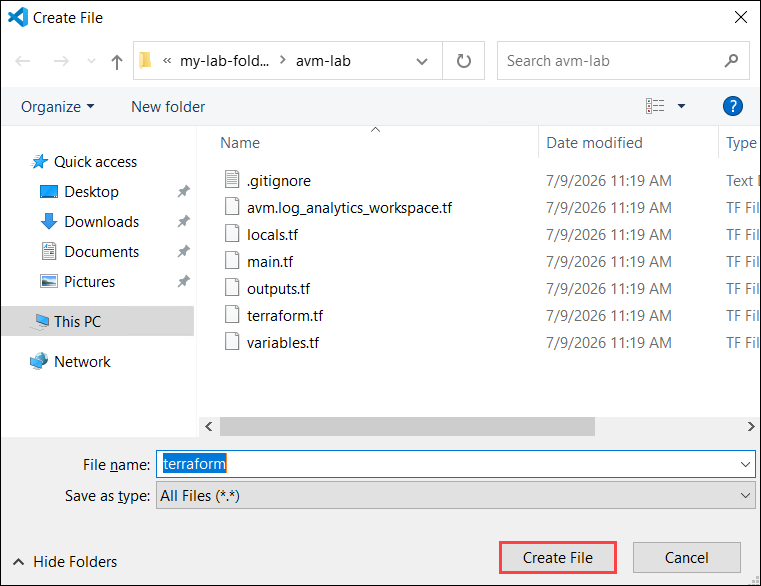
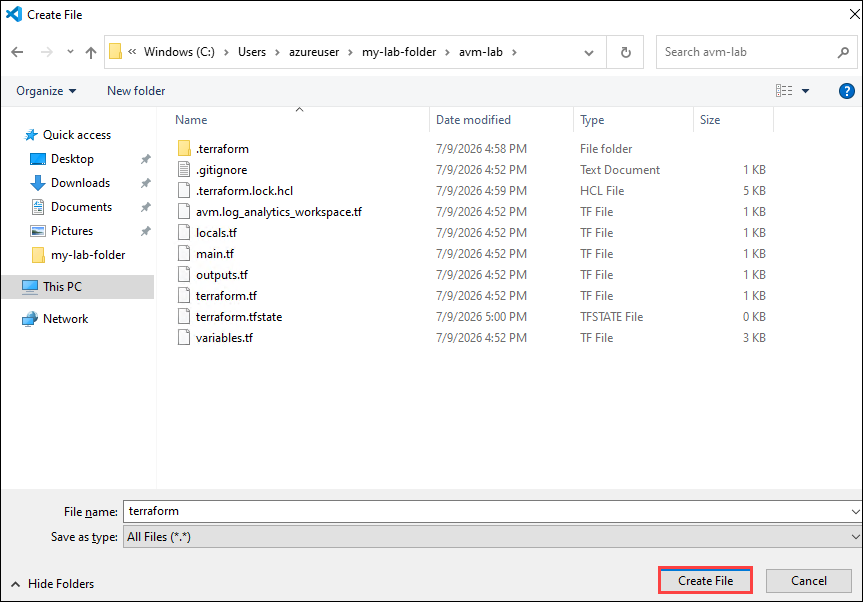
Lab guide creation and updates

diff --git a/labs/Lab 1 - Deploying Azure Resources with IaC/Exercise 1 - Set Up the Azure Infrastructure Using Azure Verified Modules.md b/labs/Lab 1 - Deploying Azure Resources with IaC/Exercise 1 - Set Up the Azure Infrastructure Using Azure Verified Modules.md
@@ -113,6 +113,10 @@ In this part we are going to get a local copy of the lab files for use in the re
       ![](../../images/lf-07.png)
 
 
+1. Open a a new terminal.
+
+   ![](../../images/vsc-terraform-lab-new-terminal.png)
+
 1. Open the VSCode Terminal and navigate to the `avm-lab` folder.
 
       ```pwsh
@@ -226,11 +230,11 @@ The Log Analytics Workspace is used as the target for diagnostic settings for al
 
    ![](../../images/tf-02.png)
 
-1. In the Search bar, give the name as **terraform.tfvars**.
+1. In the Search bar, give the name as **terraform.tfvars**
 
    ![](../../images/tf-03.png)
 
-1. In the pop-up, make sure the name is **terraform**, and click **Create File**.
+1. In the Create New File dialog box, verify that the file name is terraform, ensure the file is created in the `C:\Users\azureuser\my-lab-folder\avm-lab` directory, and then click Create File.
 
    ![](../../images/tf-04.png)
 
@@ -318,17 +322,32 @@ The Log Analytics Workspace is used as the target for diagnostic settings for al
 
     ![](../../images/git-04.png)
 
-### Part 2 - Virtual network and subnets
+## Task 4 - Virtual network and subnets
 
 In this part we are going to add a virtual network and subnets to our Terraform configuration by leveraging the Azure Verified Module for Virtual Network. The Virtual Network is going to be used to provide private connectivity between and to our virtual machine, key vault and storage account.
 
 >IMPORTANT: This lab is incremental, you must not delete any files from the previous lab (especially the `terraform.tfstate` file). You must copy the files from the next lab into the `avm-lab` folder and only replace the existing files when prompted.
+
+**Azure Networking Concepts:**
+
+| Concept | Description |
+|:--------|:------------|
+| **Address Space** | The private IP CIDR block for the entire VNet (e.g. `10.0.0.0/22`). |
+| **Subnet** | A logical subdivision of the VNet's address space. Resources are deployed into subnets. |
+| **Region scope** | VNets exist within a single Azure region. |
+| **CIDR Notation** | Specifies IP ranges using slash notation such as `/16` or `/24`. |
 
 1. Copy the files from the [part 2](labs/part02-vnet/) folder into the `avm-lab` folder. This will add some new files and replace some files.
 
       ```pwsh
       copy ../avm-terraform-labs/labs/part02-virtual-network/* .
       ```
+
+   ![](../../images/vn-1.png)
+
+1. Navigate to the `my-lab-folder` directory and verify that the files are present.
+
+   ![](../../images/vn-2.png)
 
       Your file structure should now look like this if you have followed the instructions correctly (this structure will continue to grow as you progress through the lab):
 
@@ -354,7 +373,9 @@ In this part we are going to add a virtual network and subnets to our Terraform 
       ┗ 📂avm-terraform-labs
       ```
 
-1. Open your `terraform.tfvars` and update it with the following code:
+1. Open the **terraform.tfvars (1)** file, update it with the following **code (2)**, and then save the file using `Ctrl + s`.
+
+   ![](../../images/vn-3.png)
 
       ```hcl
       address_space = "10.0.0.0/22"
@@ -381,17 +402,69 @@ In this part we are going to add a virtual network and subnets to our Terraform 
       }
       ```
 
-1. Run `terraform init` to install the AVM module for Virtual Networks and other new resources related to networking.
-1. Navigate to the `Source Control` tab in Visual Studio Code and review the changes to the files.
-1. Open the `avm.ip_addresses.tf` file and note the use of a utility module here, pay close attention to the `source` and `version` properties. A utility module is a helper module that doesn't deploy anything itself, but is used to calculate common values.
-1. Open the `avm.virtual-network.tf` file and look at each of the properties, paying close attention to the `source` and `version` properties.
-1. Examine the diagnostics settings in `locals.tf` and take note that this same setting will be applied to all of the AVM modules in the lab.
-1. In order to find more detail about AVM modules, you can navigate to their documentation. For example, you can find the documentation for the Virtual Network module [here](https://registry.terraform.io/modules/Azure/avm-res-network-virtualnetwork/azurerm/latest). From there you can navigate to the source code and see the module's implementation [here](https://github.com/Azure/terraform-azurerm-avm-res-network-virtualnetwork).
-1. Apply the changes with Terraform: `terraform apply -auto-approve`.
-1. Review the deployed resources in the Azure Portal.
-1. Commit the changes to git: `git add . && git commit -m "Add virtual network and subnets"`.
+1. Run the following command to initialize the Terraform configuration and install the Azure Verified Module (AVM) for Virtual Networks along with the required networking resources.
 
-### Part 3 - Key Vault
+   ```
+   terraform init
+   ```
+
+   ![](../../images/tf-11.png)
+
+1. Navigate to the **Source Control** tab in Visual Studio Code and review the changes to the files.
+
+   ![](../../images/tf-12.png)
+
+   ![](../../images/tf-13.png)
+
+1. Open the **avm.ip_addresses.tf (1)** file and note the use of a utility module here, pay close attention to the **source and version (2)** properties. A utility module is a helper module that doesn't deploy anything itself, but is used to calculate common values.
+
+   ![](../../images/avm-01.png)
+
+1. Open the **avm.virtual-network.tf (1)** file and look at each of the properties, paying close attention to the **source and version (2)** properties.
+
+   ![](../../images/avm-02.png)
+
+1. Examine the diagnostics settings in **locals.tf** and take note that this same setting will be applied to all of the AVM modules in the lab.
+
+   ![](../../images/avm-03.png)
+
+1. In order to find more detail about AVM modules, you can navigate to their documentation. For example, you can find the documentation for the Virtual Network module [here](https://registry.terraform.io/modules/Azure/avm-res-network-virtualnetwork/azurerm/latest). From there you can navigate to the source code and see the module's implementation [here](https://github.com/Azure/terraform-azurerm-avm-res-network-virtualnetwork).
+
+1. Run the following command in the terminal to apply the Terraform configuration and deploy the Azure resources.
+
+   ```
+   terraform apply -auto-approve
+   ```
+
+   ![](../../images/tf-14.png)
+
+1. After the command completes successfully, you should see output similar to the following:
+
+   ![](../../images/tf-15.png)
+   
+1. Review the deployed resources in the Azure portal. In the global search bar, type **Virtual network (1)**, and then select **Virtual networks (2)** from the search results.
+
+   ![](../../images/vnet-01.png)
+
+1. Select the newly created **Virtual network**.
+
+   ![](../../images/vnet-02.png)
+
+1. Review the **Virtual network** that was created as part of the Terraform deployment.
+
+   ![](../../images/vnet-03.png)
+
+1. Navigate back to Visual Studio Code, and in the terminal, run the following command to commit the changes to the Git repository:
+
+   ```
+   git add .  
+   git commit -m "Add virtual network and subnets"
+
+   ```
+
+   ![](../../images/tf-16.png)
+
+## Task 5 - Key Vault
 
 In this part we are going to add a Key Vault to our Terraform configuration by leveraging the Azure Verified Module for Key Vault. The Key Vault is going to be used to store the customer managed key for our storage account and the SSH private key for our virtual machine.
 
@@ -401,14 +474,46 @@ In this part we are going to add a Key Vault to our Terraform configuration by l
       copy ../avm-terraform-labs/labs/part03-key-vault/* .
       ```
 
-1. Run `terraform init` to install the AVM module for Key Vault.
-1. Navigate to the `Source Control` tab in Visual Studio Code and review the changes to the files.
-1. Open the `avm.key-vault.tf` file and look at each of the properties, paying close attention to the `private_endpoints` and `role_assignments` variables.
-1. Apply the changes with Terraform: `terraform apply -auto-approve`.
-1. Review the deployed resources in the Azure Portal.
-1. Commit the changes to git: `git add . && git commit -m "Add key vault"`.
+   ![](../../images/kv-01.png)
 
-### Part 4 - Storage account
+1. Run the following command to initialize the Terraform configuration and install the Azure Verified Module (AVM) for Key Vault.
+
+   ```
+   terraform init
+   ```
+
+   ![](../../images/kv-02.png)
+
+1. Open the **avm.key_vault.tf (1)** file and look at each of the properties, paying close attention to the **private_endpoints (2)** and **role_assignments (3)** variables.
+
+   ![](../../images/kv-03.png)
+
+1. Run the following command to apply the Terraform configuration and deploy the Azure resources.
+
+   ```
+   terraform apply -auto-approve
+   ```
+
+   ![](../../images/kv-03.png)
+
+1. Navigate back to the Azure portal. In the search bar, type **Key vault (1)**, and then select **Key vaults (2)** from the search results to view the newly created resource.
+
+   ![](../../images/kv-04.png)
+
+1. Select the newly created Key vault, and review the resource.
+
+   ![](../../images/kv-05.png)
+
+1. Commit the changes to git: 
+
+   ```
+   git add .  
+   git commit -m "Add key vault"
+   ```
+
+   ![](../../images/kv-06.png)
+
+## Task 6 - Storage account
 
 In this part we are going to add a Storage Account to our Terraform configuration by leveraging the Azure Verified Module for Storage Account. The Storage Account is the main component of our demo lab and we will interact with it later on.
 